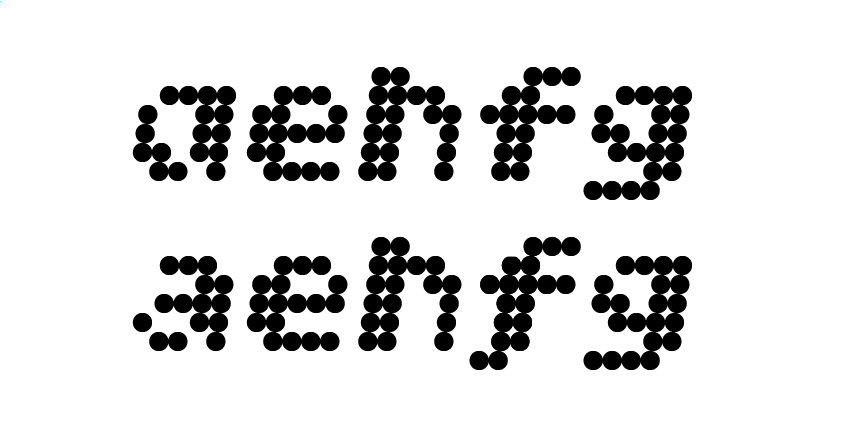
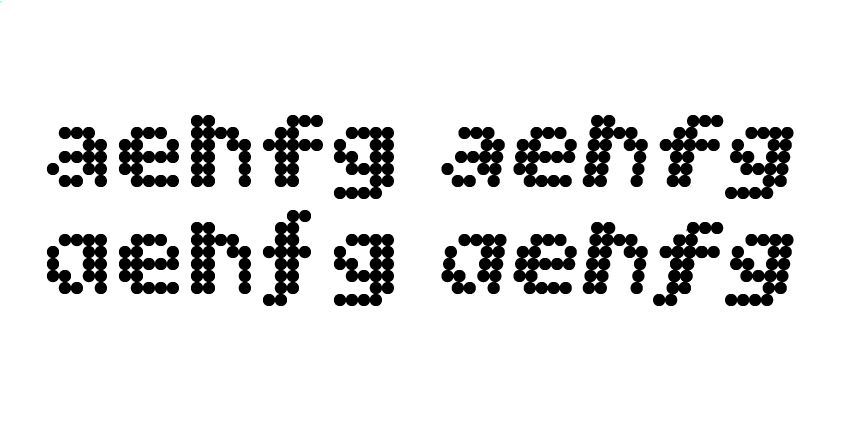
Added new versions of the open type illustrations

Changed region(s): [[0.0307, 0.4706, 0.9505, 0.8529], [0.0613, 0.1471, 0.9505, 0.4706]]

diff --git a/response/index.html b/response/index.html
@@ -429,14 +429,12 @@ In Single variant there is an OT-Feature available to add a pixel where contrast
 						<h2>Latin-1 glyph set</h2>
 						<img src="img/pixelshapes/latin1glyph_set.png"/>
 						<p class="extended">Bitcount supports the full complement of Latin-1 glyphs, including most accented characters.</p>																
-						<br/>
+						<br/><br/>
 						<h2>Small caps</h2>
-						<img src="img/pixelshapes/small_caps.png"/>
+						<img src="img/pixelshapes/caps_smallcaps.png"/>
 						<p class="extended">Both <b>Lowercase to small caps</b> and <b>Capital to small caps</b> OpenType features are implemented for all Bitcount variants.</p>
-						<br/>
-						<h2>Italic shapes</h2>
-						<img src="img/pixelshapes/italic_shapes.png"/>
-						<p class="extended">A number of italic shapes are available independently of the slant of a given variant. </p>
+						<br/><br/>
+						
 
 						</div>
 				</div>				
@@ -445,10 +443,14 @@ In Single variant there is an OT-Feature available to add a pixel where contrast
 					<div class="single_feature">
                          <div class="s_featicon_wrap"></div>
                         <h2>Various sets of figures</h2>
+                        <img src="img/pixelshapes/figures.png"/>
+
 						<p class="extended">Bitcount incorporates seven sets of figures in the Single variant and five sets in the Double, including tabular, oldstyle, lining, superscript, and subscript, all fitting within the limitations of the pixel grid.</p>
-						<br/>
-						<h2>Ligatures</h2>
-						<p class="extended">A common set of ligatures is supported as an OpenType feature. </p>																						
+						<br/><br/>
+						<h2>Extra contrast pixel</h2>
+						 <img src="img/pixelshapes/extra_contrast_pixel.png"/>
+
+						<p class="extended"></p>																						
 
 					</div>
 				</div>				
@@ -456,6 +458,10 @@ In Single variant there is an OT-Feature available to add a pixel where contrast
 				<div class="col-lg-4 col-md-4 col-sm-6 wow fadeInUp" data-wow-duration="1.5s" data-wow-delay=".9s">
 					<div class="single_feature">
 						<div class="s_featicon_wrap"></div>
+						<h2>Italic shapes</h2>
+						<img src="img/pixelshapes/italic_shapes.png"/>
+						<p class="extended">A number of italic shapes are available independently of the slant of a given variant. </p>
+						<br/><br/>
 						<h2>Condensed</h2>
 						<p class="extended">All Single variants have a condensed glyph set implemented as an OpenType feature.</p>
 						<br/>
